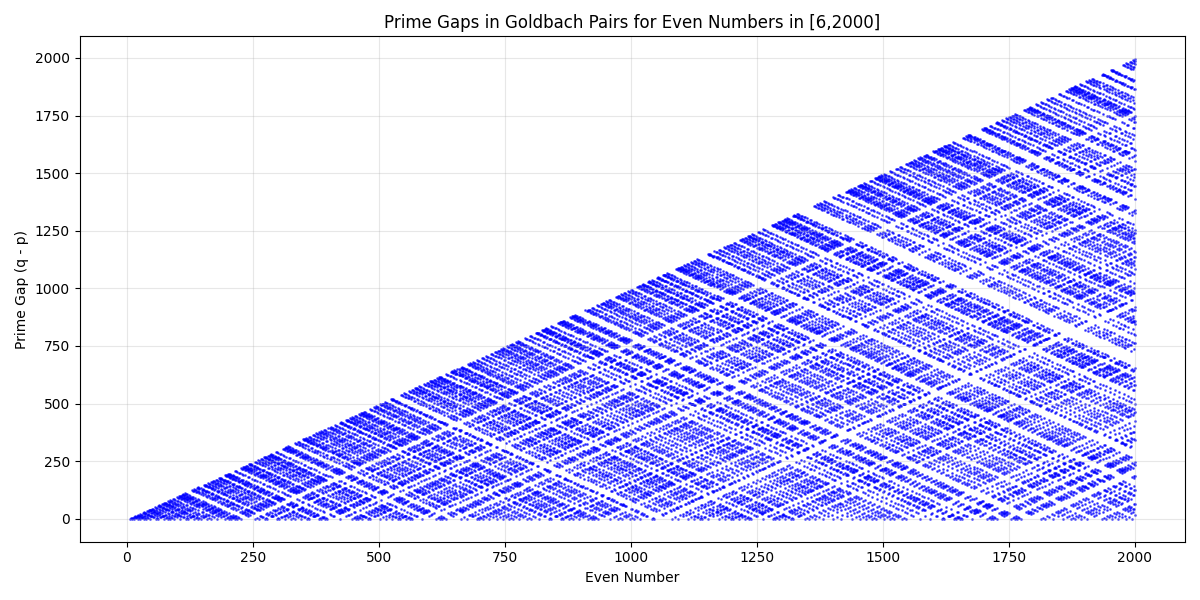
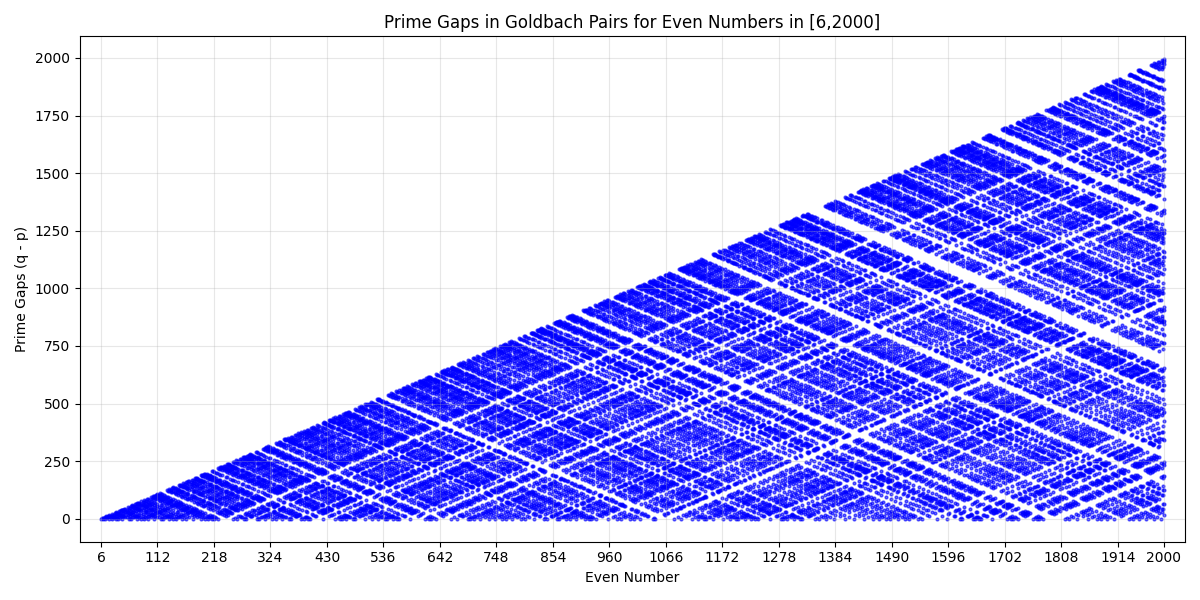
plot refinements

diff --git a/goldbach/plots/goldbach_pair_count.py b/goldbach/plots/goldbach_pair_count.py
@@ -29,17 +29,20 @@ class PlotGoldbachPairCounts(GoldbachPlotBase):
         plt.ylabel("Number of Goldbach Pairs")
         plt.title(f"Goldbach Pair Counts for Even Numbers in [{start},{end}]")
         plt.grid(True, alpha=0.3)
-        # Add a larger margin to the x-axis, but only label ticks for actual evens in the range
+        # Add a larger margin to the x-axis, but only label a subset of even numbers for readability
         margin = (max(evens) - min(evens)) * 0.02
         left = min(evens) - margin
         right = max(evens) + margin
         plt.xlim(left, right)
         ax = plt.gca()
-        ax.xaxis.set_major_locator(mticker.MultipleLocator(2))
+        # Choose a step so that at most 20 ticks are shown
+        max_ticks = 20
+        step = max(2, 2 * ((len(evens) - 1) // (max_ticks - 1) + 1))
+        ticks = [e for i, e in enumerate(evens) if i % (step // 2) == 0]
+        if evens[-1] not in ticks:
+            ticks.append(evens[-1])
+        ax.xaxis.set_major_locator(mticker.FixedLocator(ticks))
         ax.xaxis.set_minor_locator(mticker.NullLocator())
-        # Only label ticks for evens in the range, not for the margin
-        ticks = [e for e in evens if left < e < right]
-        ax.set_xticks(ticks)
         ax.set_xticklabels([str(e) for e in ticks], rotation=0)
         ax.yaxis.set_major_locator(mticker.MaxNLocator(integer=True))
         plt.tight_layout()

diff --git a/goldbach/plots/goldbach_pair_prime_gaps.py b/goldbach/plots/goldbach_pair_prime_gaps.py
@@ -30,13 +30,19 @@ class PlotGoldbachPrimeGaps(GoldbachPlotBase):
         plt.ylabel("Prime Gaps (q - p)")
         plt.title(f"Prime Gaps in Goldbach Pairs for Even Numbers in [{start},{end}]")
         plt.grid(True, alpha=0.3)
-        # Add a larger margin to the x-axis, but only label ticks for actual evens
+        # Add a larger margin to the x-axis, but only label a subset of even numbers for readability
         margin = (max(evens) - min(evens)) * 0.02
         plt.xlim(min(evens) - margin, max(evens) + margin)
         ax = plt.gca()
-        ax.xaxis.set_major_locator(mticker.FixedLocator(evens))
+        # Choose a step so that at most 20 ticks are shown
+        max_ticks = 20
+        step = max(2, 2 * ((len(evens) - 1) // (max_ticks - 1) + 1))
+        ticks = [e for i, e in enumerate(evens) if i % (step // 2) == 0]
+        if evens[-1] not in ticks:
+            ticks.append(evens[-1])
+        ax.xaxis.set_major_locator(mticker.FixedLocator(ticks))
         ax.xaxis.set_minor_locator(mticker.NullLocator())
-        ax.set_xticklabels([str(e) for e in evens], rotation=0)
+        ax.set_xticklabels([str(e) for e in ticks], rotation=0)
         plt.tight_layout()
         if output:
             plt.savefig(output)
